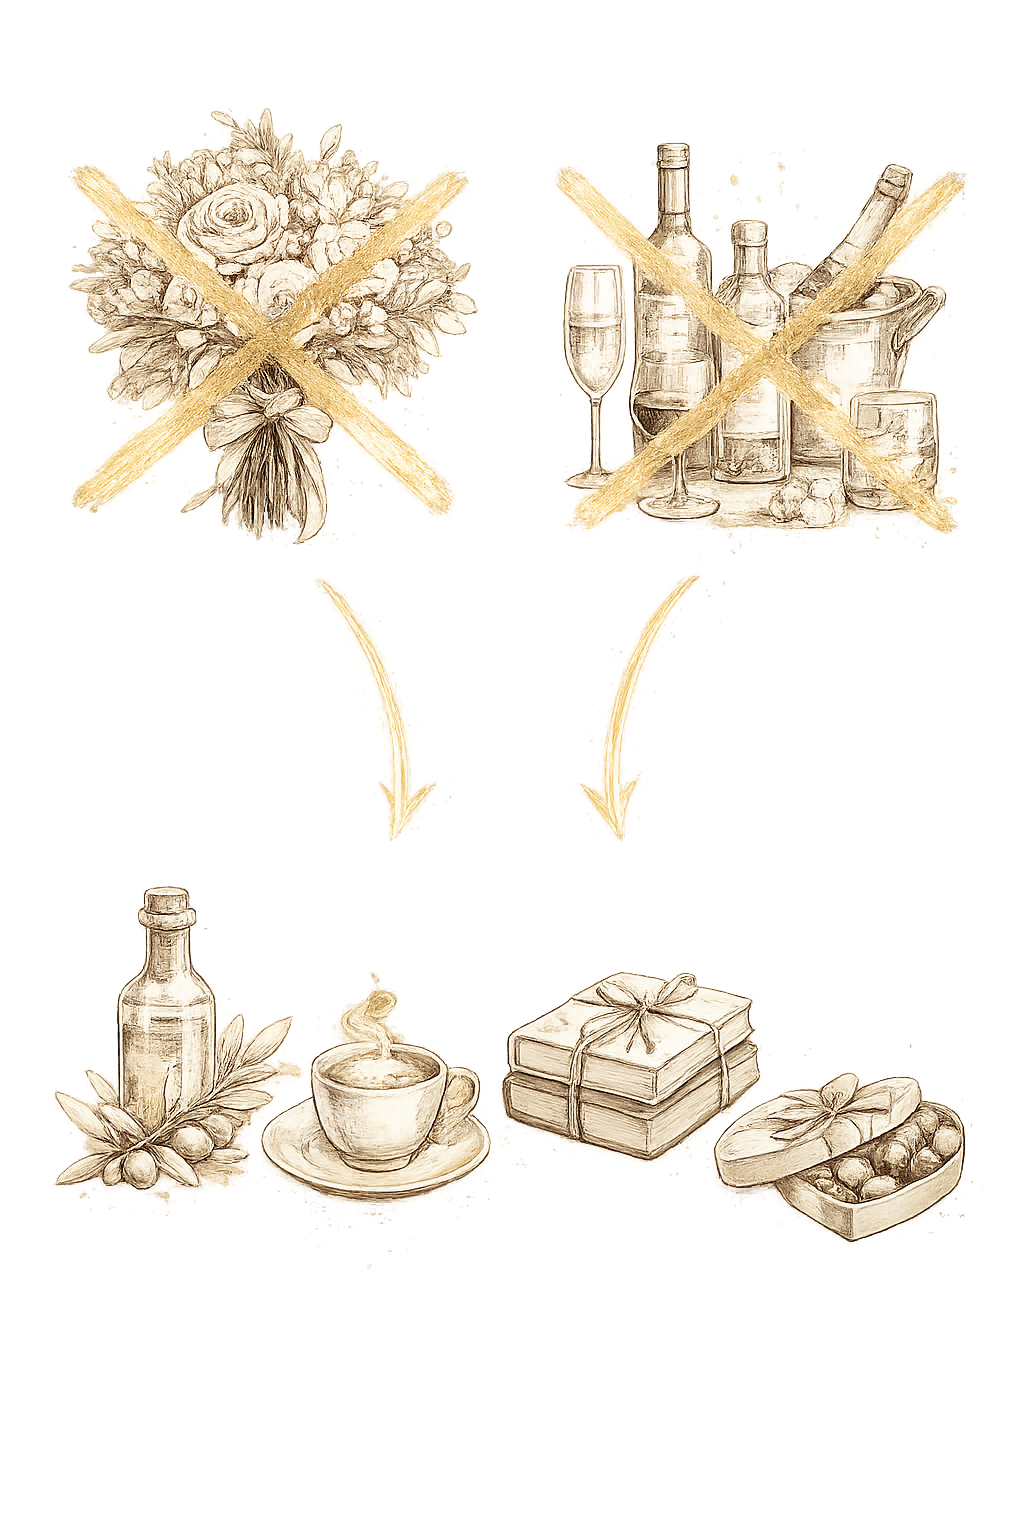
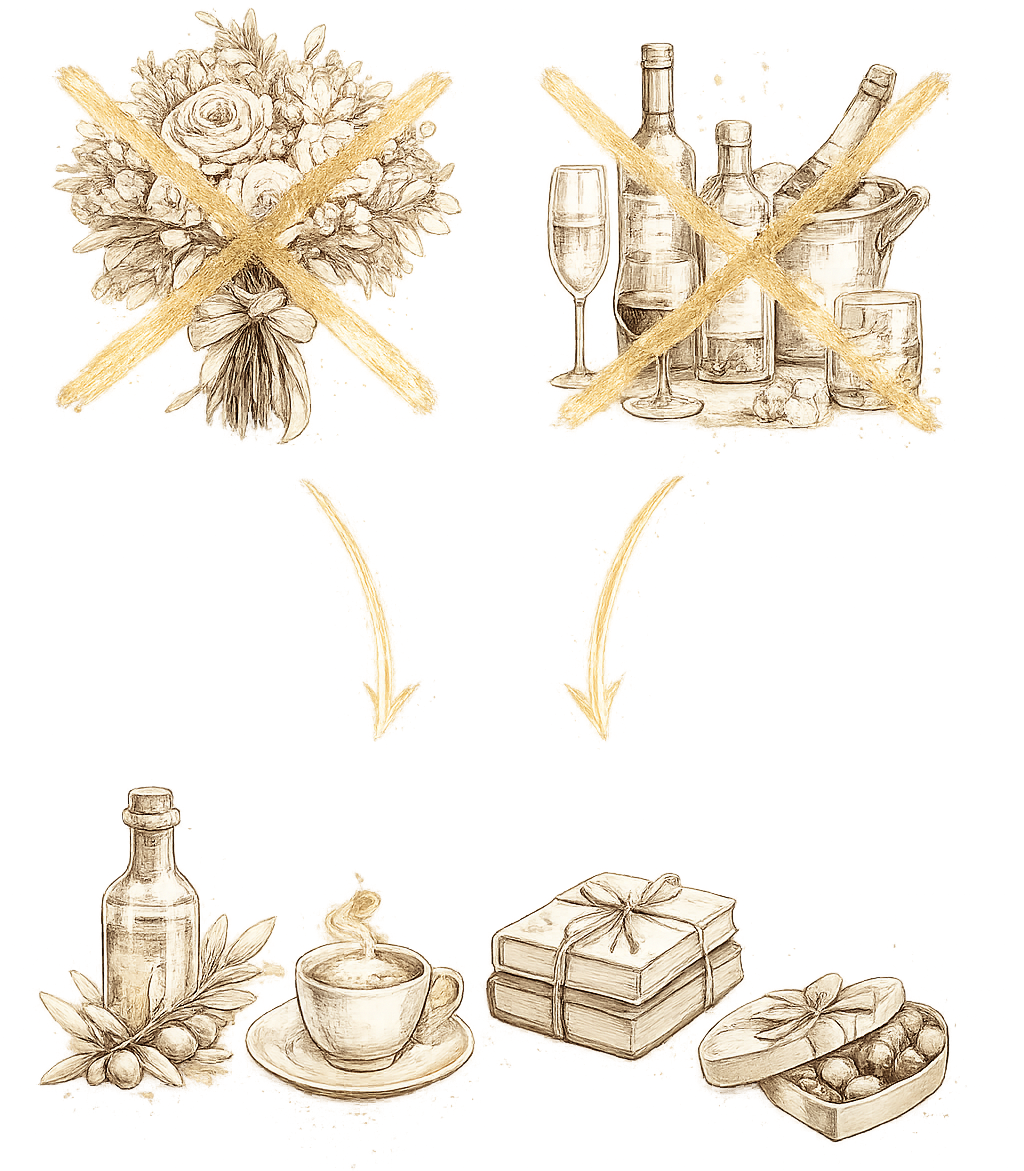
another flowers

diff --git a/src/style.css b/src/style.css
@@ -1471,9 +1471,9 @@
 }
 
 .hero-flowers {
-  margin-top: var(--spacing-2xl);
+  margin-top: 2rem;
   max-width: 100%;
-  width: 600px;
+  width: 150px;
   height: auto;
   display: block;
   object-fit: contain;
